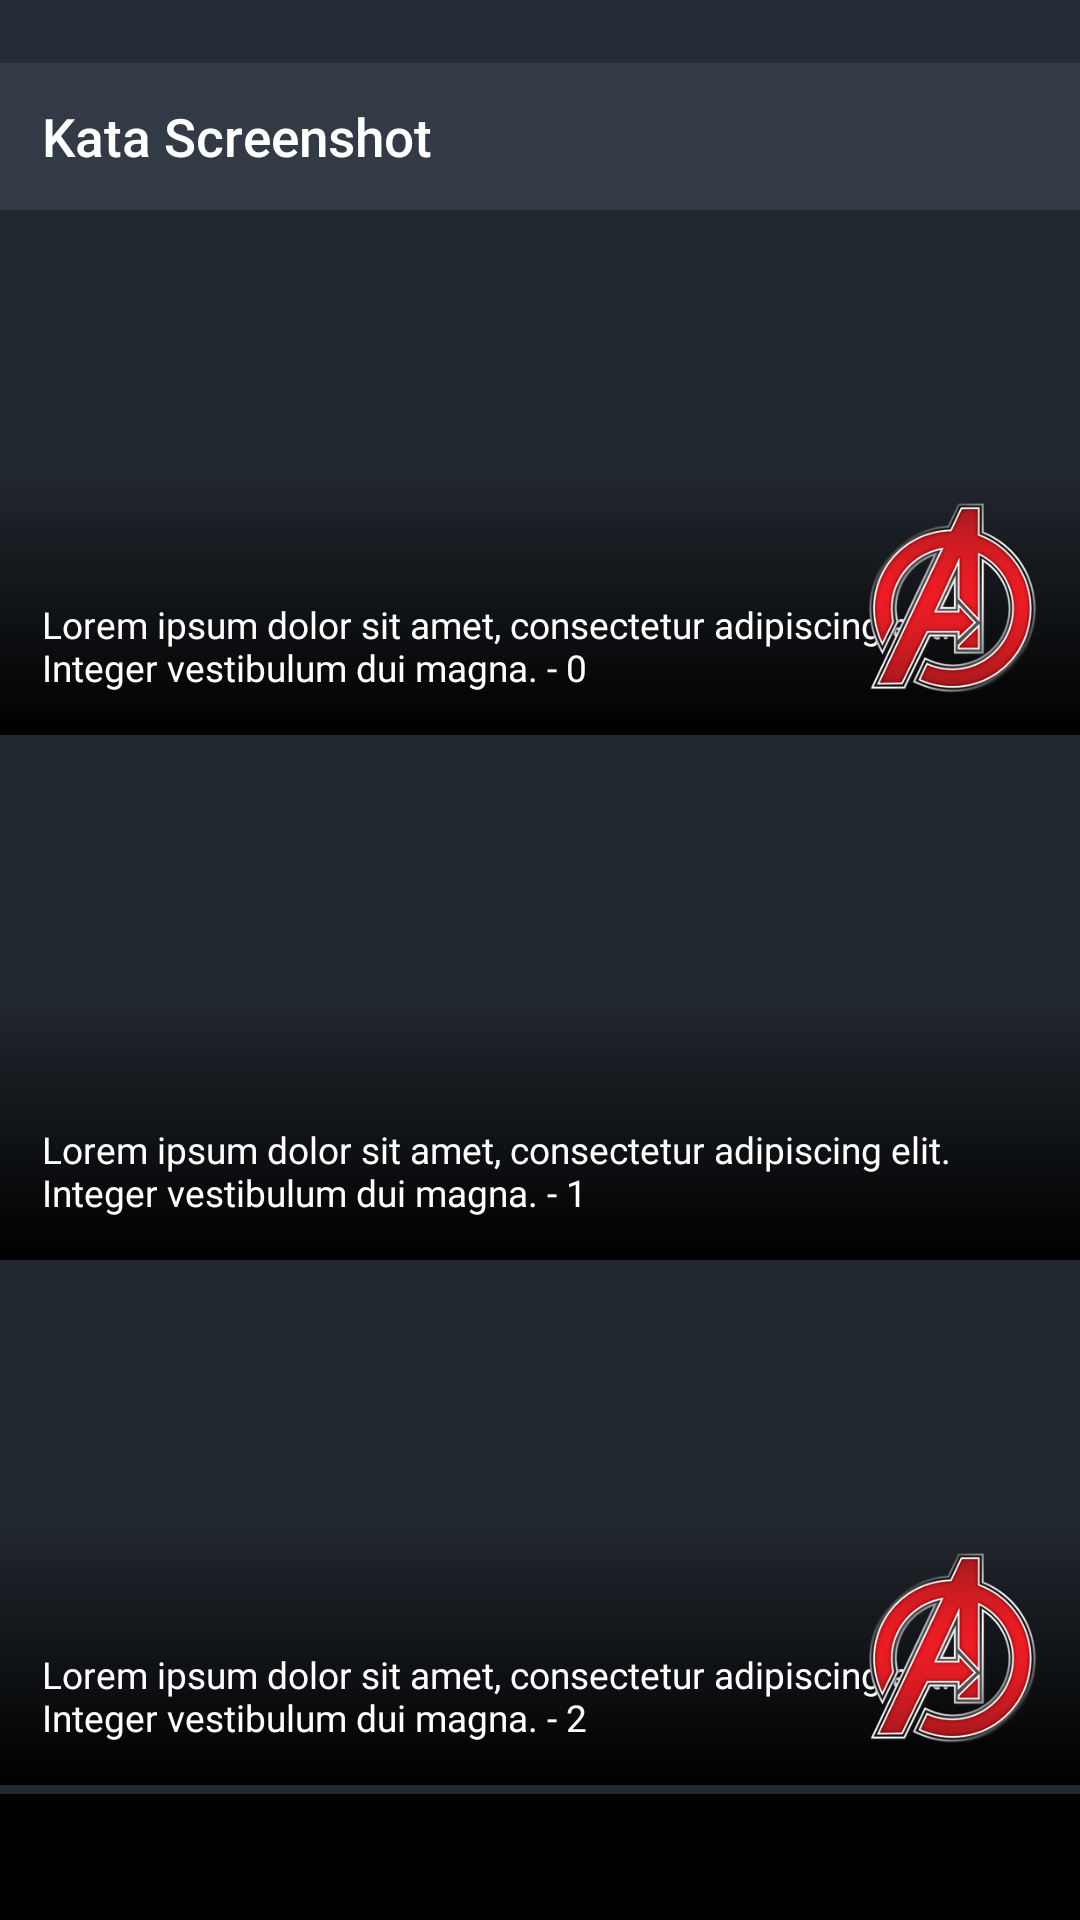
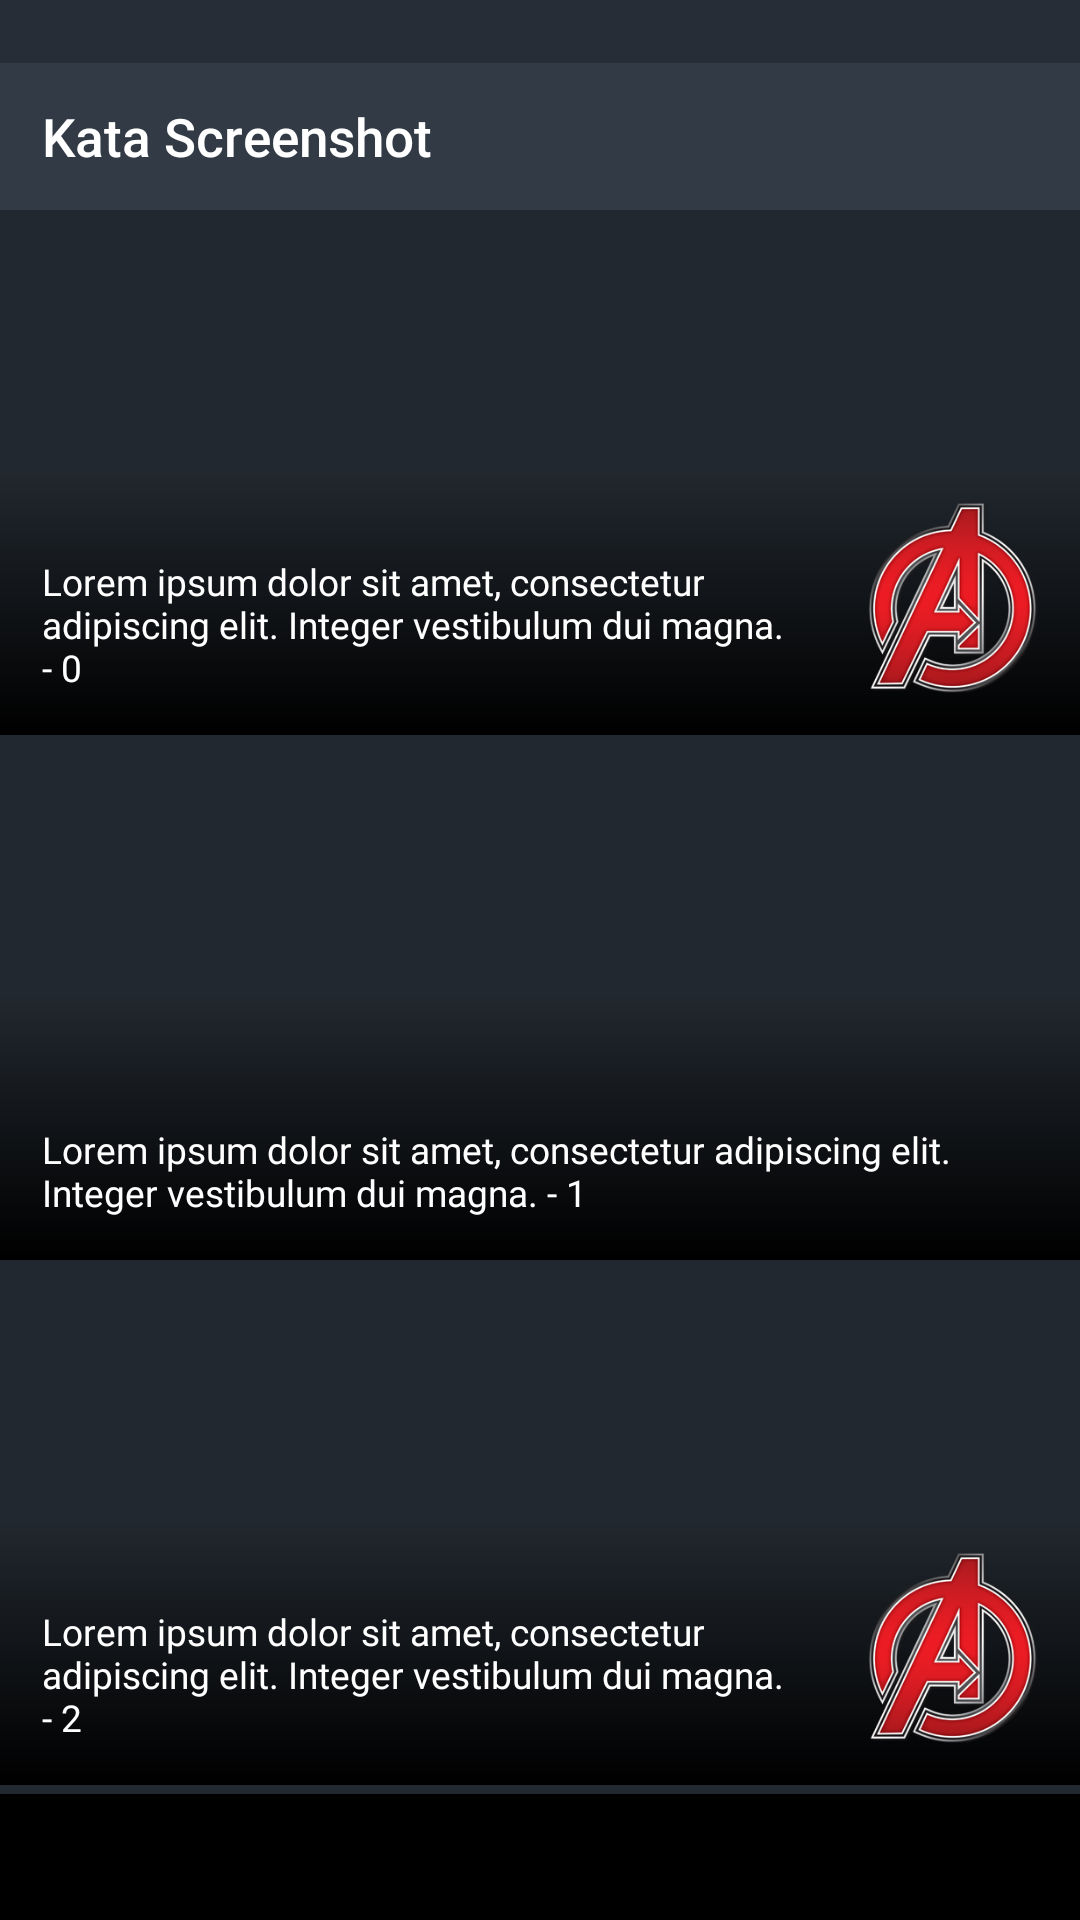
Fixed UI for superhero item in list when name is too long

diff --git a/app/src/androidTest/java/com/karumi/ui/view/SuperHeroViewHolderTest.kt b/app/src/androidTest/java/com/karumi/ui/view/SuperHeroViewHolderTest.kt
@@ -35,7 +35,7 @@ class SuperHeroViewHolderTest : ScreenshotTest {
 
     @Test
     fun showsSuperHeroWithNoName() {
-        val superHero = givenASuperHeroWithNameLength(TextLength.EMPTY)
+        val superHero = givenASuperHeroWithNameLength(nameLength = TextLength.EMPTY)
         val holder = givenASuperHeroViewHolder()
 
         holder.render(superHero)
@@ -45,7 +45,7 @@ class SuperHeroViewHolderTest : ScreenshotTest {
 
     @Test
     fun showsSuperHeroWithShortName() {
-        val superHero = givenASuperHeroWithNameLength(TextLength.SHORT)
+        val superHero = givenASuperHeroWithNameLength(nameLength = TextLength.SHORT)
         val holder = givenASuperHeroViewHolder()
 
         holder.render(superHero)
@@ -55,7 +55,7 @@ class SuperHeroViewHolderTest : ScreenshotTest {
 
     @Test
     fun showsSuperHeroWithLongName() {
-        val superHero = givenASuperHeroWithNameLength(TextLength.LONG)
+        val superHero = givenASuperHeroWithNameLength(nameLength = TextLength.LONG)
         val holder = givenASuperHeroViewHolder()
 
         holder.render(superHero)
@@ -65,7 +65,17 @@ class SuperHeroViewHolderTest : ScreenshotTest {
 
     @Test
     fun showsSuperHeroWithVeryLongName() {
-        val superHero = givenASuperHeroWithNameLength(TextLength.VERY_LONG)
+        val superHero = givenASuperHeroWithNameLength(nameLength = TextLength.VERY_LONG)
+        val holder = givenASuperHeroViewHolder()
+
+        holder.render(superHero)
+
+        compareScreenshot(holder, R.dimen.super_hero_row_height)
+    }
+
+    @Test
+    fun showsAvengerWithVeryLongName() {
+        val superHero = givenASuperHeroWithNameLength(isAvenger = true, nameLength = TextLength.VERY_LONG)
         val holder = givenASuperHeroViewHolder()
 
         holder.render(superHero)
@@ -83,7 +93,7 @@ class SuperHeroViewHolderTest : ScreenshotTest {
         )
     }
 
-    private fun givenASuperHeroWithNameLength(nameLength: TextLength): SuperHero {
+    private fun givenASuperHeroWithNameLength(isAvenger: Boolean = false, nameLength: TextLength): SuperHero {
         val superHeroName = getTestTextByLength(nameLength)
         val superHeroDescription = "Description Super Hero"
         val isAvenger = false
